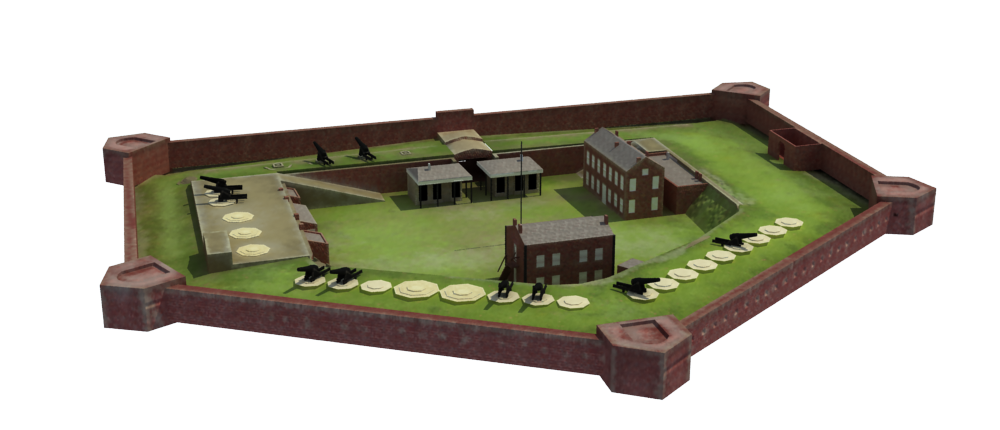
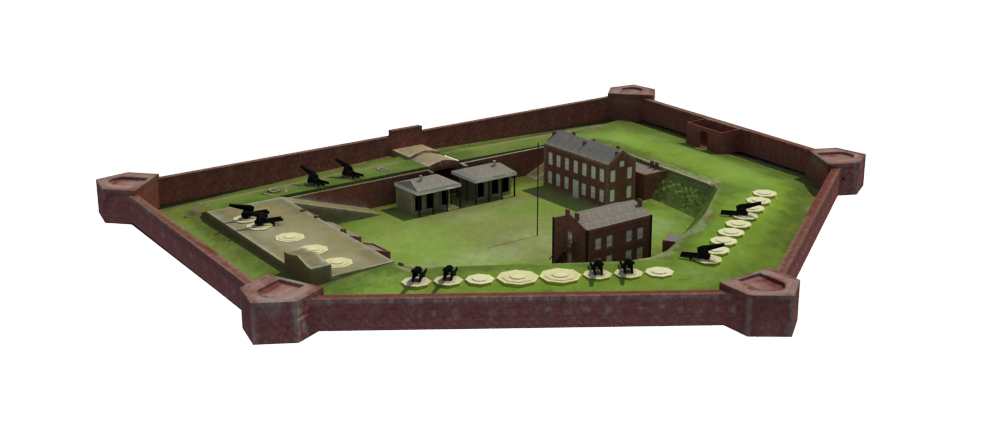
new fort images

diff --git a/js/main.js b/js/main.js
@@ -25,21 +25,24 @@ $("select").each(function () {
 
 // define images
 
-function buildImgArray(folder, fileName, n) {
+function buildImgArray(folder, fileName, n, x) {
+    x=x||1;
     Number.prototype.pad = function (size) {//pad preceeding zero's to the numbers
         var sign = Math.sign(this) === -1 ? '-' : '';
         return sign + new Array(size).concat([Math.abs(this)]).join('0').slice(-size);
     }
     var arr=[];
     for(i=0;i<n;i++){
+        if(i%x<0.5){//using this to lessen the picture count if needed.
         arr.push('./img/sequences/' + folder + '/' + fileName+ i.pad(2) +'.png');
+        }
     }
     return arr;
 }
 
 ////FORT ANIMATION
-var images = buildImgArray('fort', 'FortClinch00', 15);
-// console.log(images,gull_images,turtle_images);
+var images = buildImgArray('fort-small', 'FortClinch00', 50, 2);
+console.log(images);
 var obj = { curImg: 0 };
 var tween = TweenMax.to(obj, 0.75, {
     curImg: images.length - 1, // animate propery curImg to number of images
@@ -70,7 +73,7 @@ var turtle_images = buildImgArray('turtle', 'Turtle00', 16);
 // console.log(images,gull_images,turtle_images);
 var turtle_obj = { curImg: 0 };
 //// GULL ANIMATION
-var gull_images = buildImgArray('gulls', 'Gulls00', 50);
+var gull_images = buildImgArray('gulls', 'Gulls00', 50,2);
 // console.log(images,gull_images,gull_images);
 var gull_obj = { curImg: 0 };
 var hero_tween = new TimelineMax();
